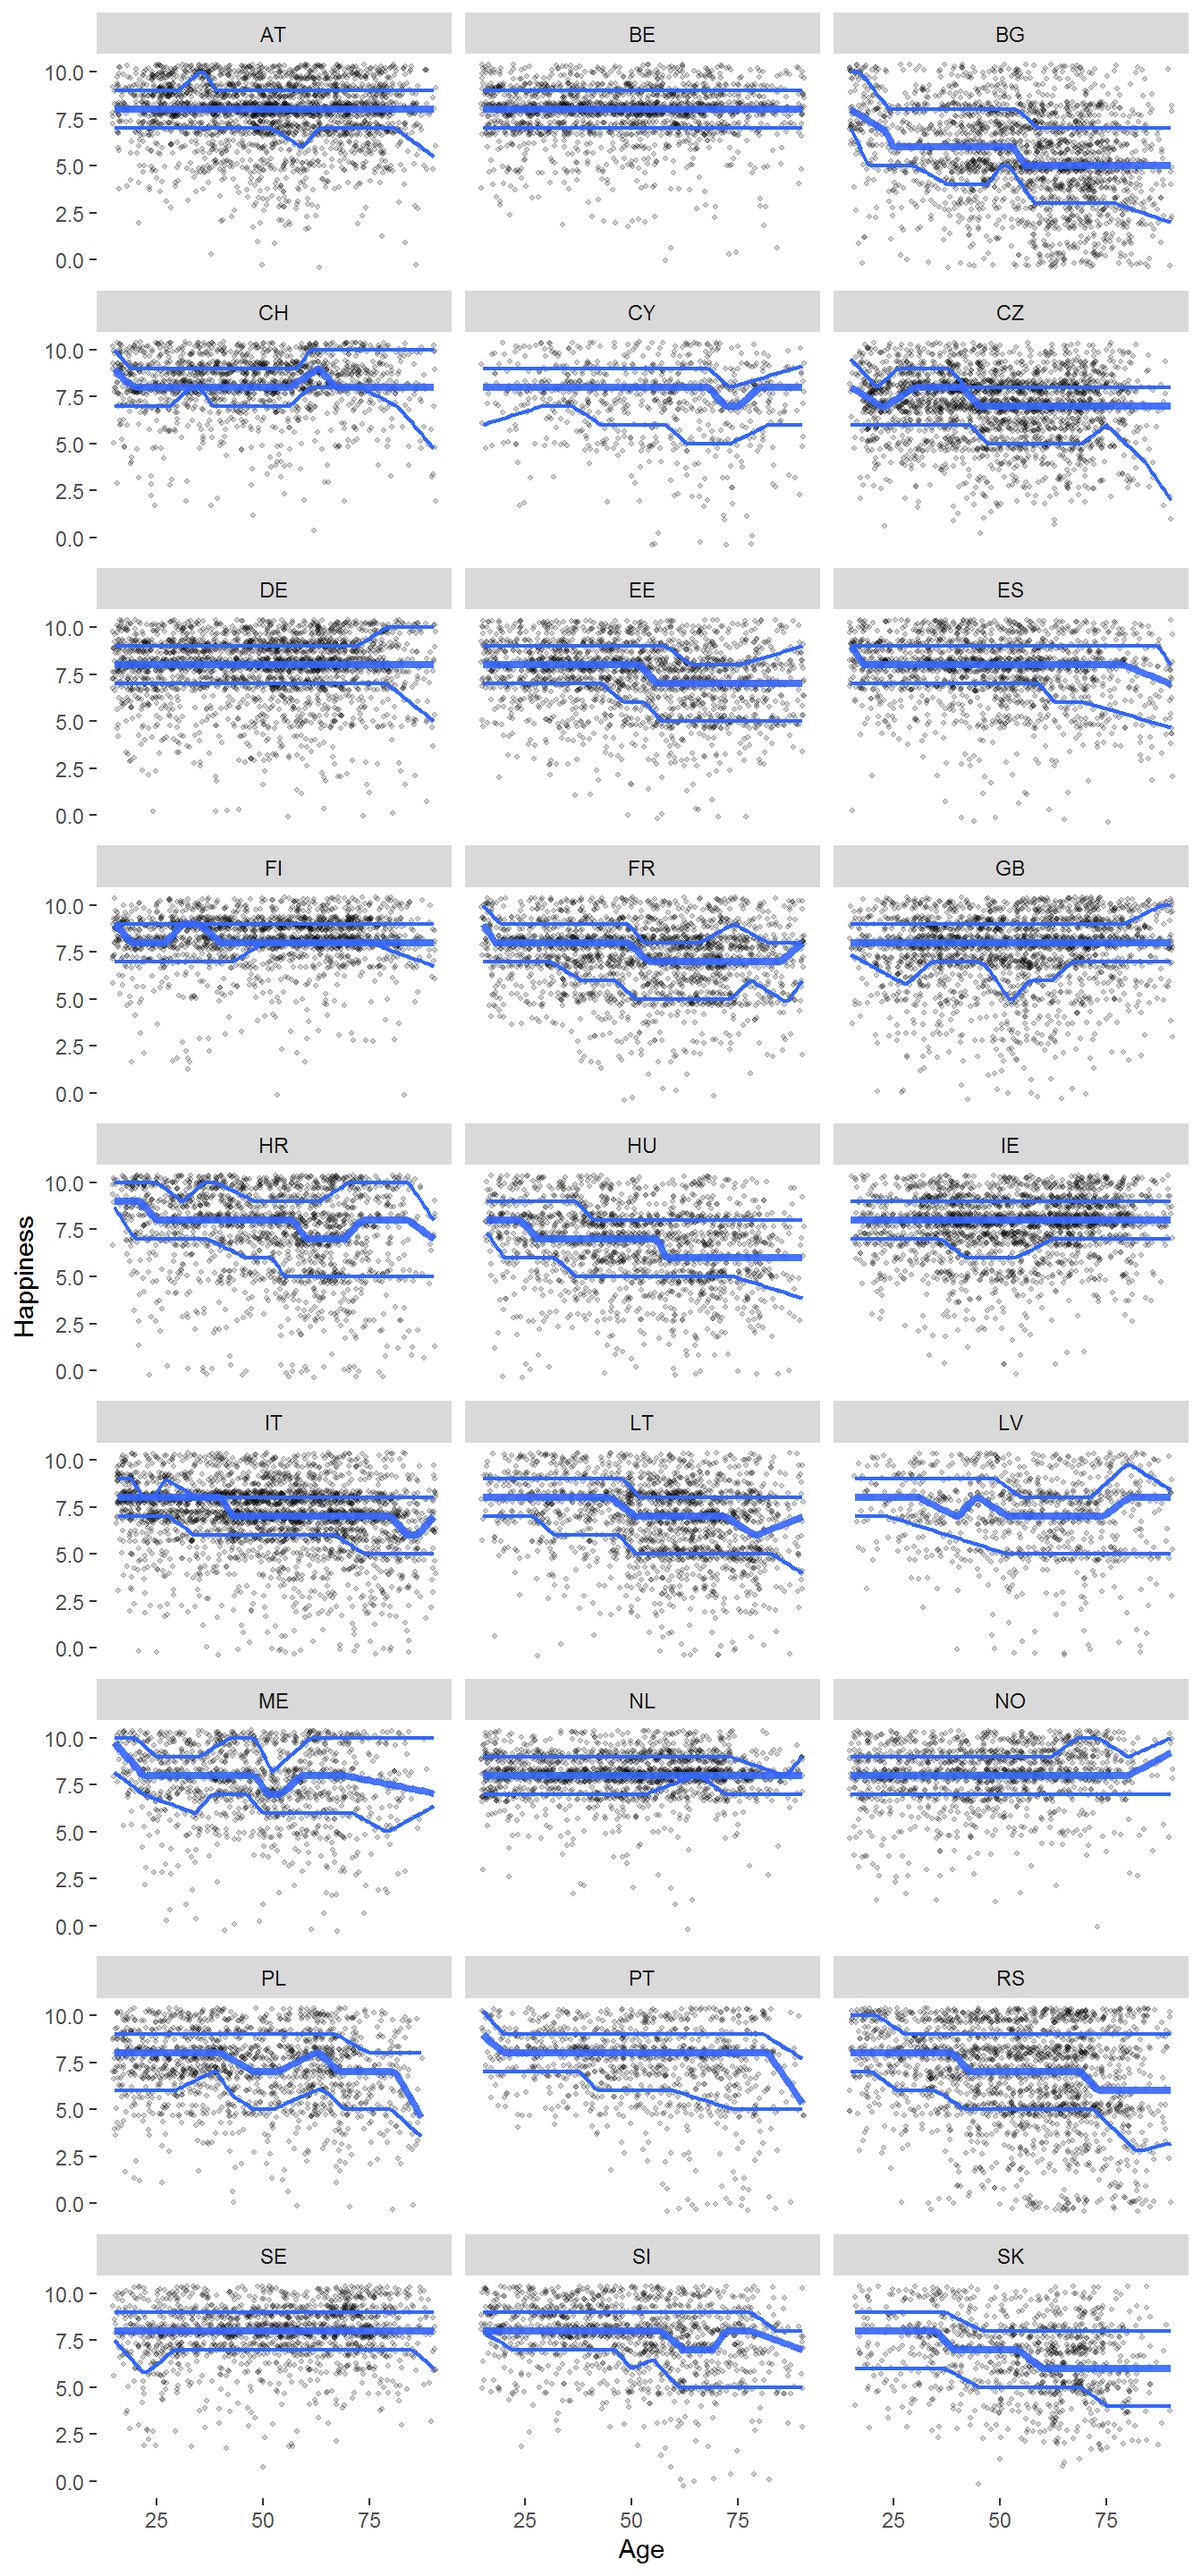
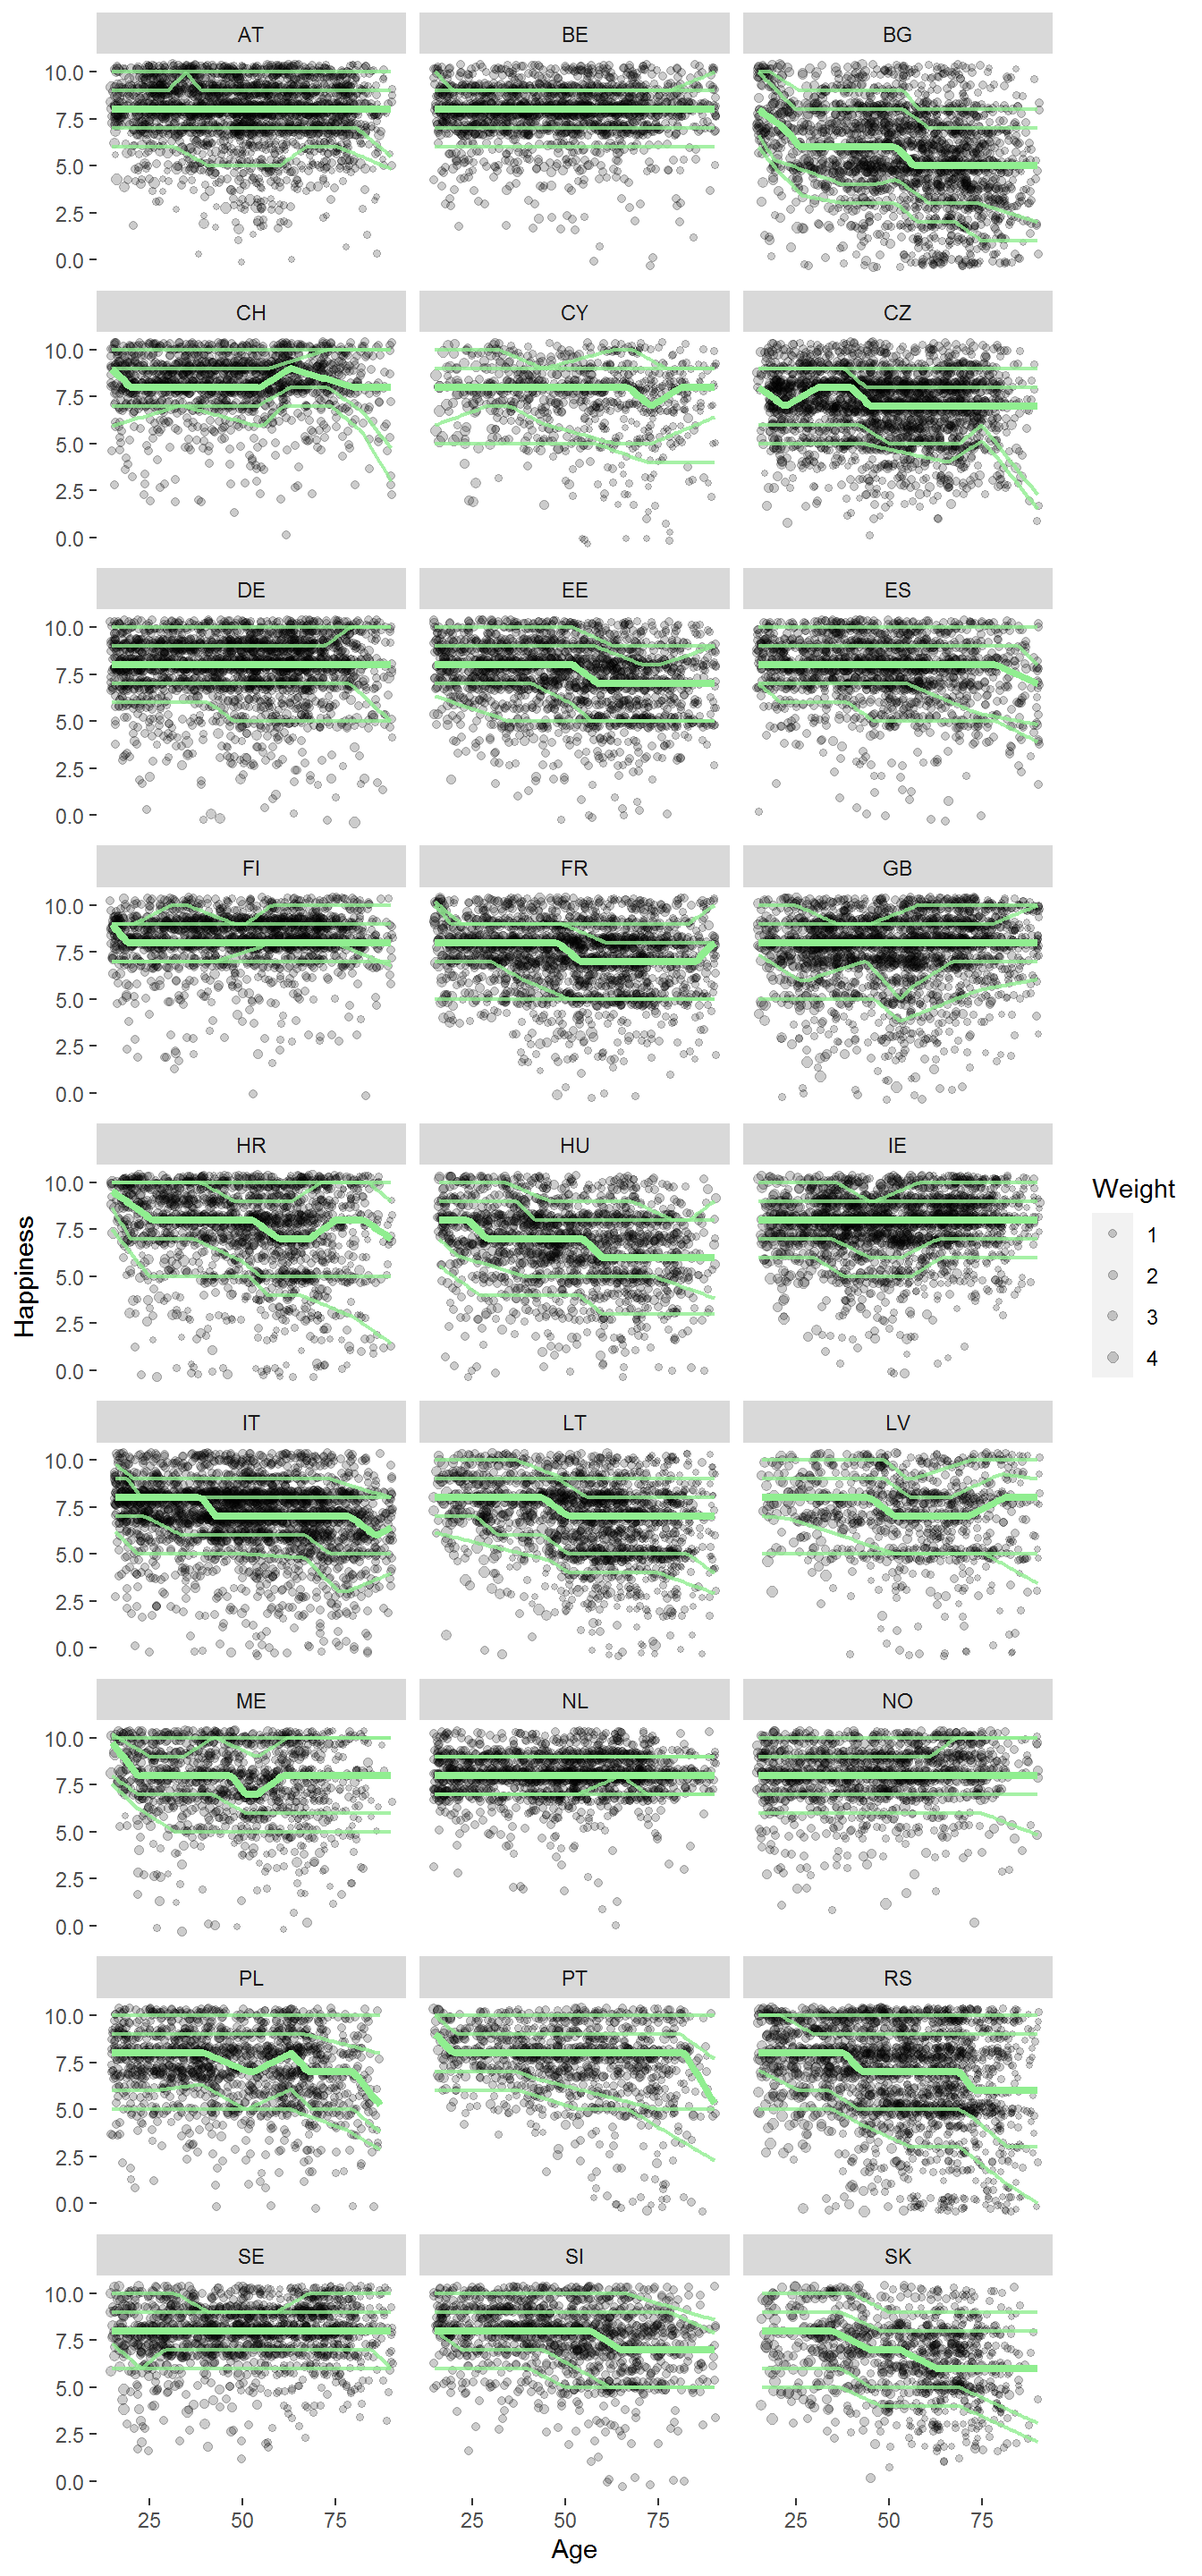
More work in progress

diff --git a/index.html b/index.html
@@ -11,7 +11,7 @@
 
 <meta name="author" content="Andi Fugard (almost@gmail.com, @inductivestep)" />
 
-<meta name="date" content="2020-08-12" />
+<meta name="date" content="2020-08-13" />
 
 <title>Is happiness U-shaped?</title>
 
@@ -256,20 +256,20 @@ div.tocify {
 
 <h1 class="title toc-ignore">Is happiness U-shaped?</h1>
 <h4 class="author">Andi Fugard (<a href="mailto:almost@gmail.com" class="email">almost@gmail.com</a>, @<a href="https://twitter.com/InductiveStep">inductivestep</a>)</h4>
-<h4 class="date">12 August 2020</h4>
+<h4 class="date">13 August 2020</h4>
 
 </div>
 
 
 <div id="introduction" class="section level1">
 <h1>Introduction</h1>
-<p>This is <em>work in progress</em>, in response to David G. Blanchflower’s paper <a href="https://www.nber.org/papers/w26641">Is Happiness U-shaped Everywhere?</a>.</p>
+<p>This is <strong>work in progress</strong>, in response to David G. Blanchflower’s paper <a href="https://www.nber.org/papers/w26641">Is Happiness U-shaped Everywhere?</a>.</p>
 <p>I’m curious to know:</p>
 <ul>
 <li>The shape of happiness in the latest round of the <a href="https://www.europeansocialsurvey.org/">European Social Survey</a>.</li>
 <li>How the magnitude of any effect for age compares with other obvious predictors of wellbeing.</li>
 </ul>
-<p>Load some packages:</p>
+<p>Load packages:</p>
 <pre class="r"><code>library(tidyverse)</code></pre>
 <pre><code>## -- Attaching packages ----------------------------------------- tidyverse 1.3.0 --</code></pre>
 <pre><code>## v ggplot2 3.3.2     v purrr   0.3.4
@@ -312,6 +312,7 @@ library(srvyr)</code></pre>
 <pre><code>## The following object is masked from &#39;package:graphics&#39;:
 ## 
 ##     dotchart</code></pre>
+<pre class="r"><code>library(broom)</code></pre>
 <p>Read in the ESS data, <a href="https://www.europeansocialsurvey.org/download.html?file=ESS9e02&amp;c=&amp;y=2018">integrated file, edition 2.0 round 9</a>:</p>
 <pre class="r"><code>ESS9e02 &lt;- read_sav(&quot;ESS9e02.sav&quot;)</code></pre>
 <p>Have a look:</p>
@@ -394,21 +395,26 @@ age_group_names</code></pre>
   facet_wrap(vars(cntry), ncol = 3) +
   labs(x = &quot;Age group&quot;, y = &quot;Mean happiness&quot;)</code></pre>
 <p><img src="index_files/figure-html/unnamed-chunk-12-1.png" width="672" /></p>
-<pre class="r"><code>dat %&gt;%
-  select(agea, happy, cntry) %&gt;%
+<p>This is another quick visual, without any weighting.</p>
+<pre class="r"><code>theLambda &lt;- 15
+dat %&gt;%
+  select(agea, happy, cntry, pspwght) %&gt;%
   na.omit %&gt;%
-  ggplot(aes(x = agea, y = happy)) +
-    geom_jitter(size = .8, alpha = 0.2) + 
+  ggplot(aes(x = agea, y = happy, size = pspwght)) +
+    geom_jitter(alpha = 0.2) + 
+    scale_size(range = c(.8, 2), name=&quot;Weight&quot;) +
     geom_quantile(quantiles = c(.5),
                   method = &quot;rqss&quot;,
-                  formula = y ~ qss(x, lambda = 8),
+                  formula = y ~ qss(x, lambda = theLambda),
                   size = 1.5,
-                  alpha = 0.9) + 
-    geom_quantile(quantiles = c(.2, .8),
+                  alpha = 1,
+                  col = &quot;lightgreen&quot;) + 
+    geom_quantile(quantiles = c(.1, .2, .8, .9),
                   method = &quot;rqss&quot;,
-                  formula = y ~ qss(x, lambda = 8),
+                  formula = y ~ qss(x, lambda = theLambda),
                   size = .8,
-                  alpha = 1) + 
+                  alpha = .8,
+                  col = &quot;lightgreen&quot;) + 
     facet_wrap(vars(cntry), ncol = 3) +
     labs(x = &quot;Age&quot;, y = &quot;Happiness&quot;) +
     scale_x_continuous() + 
@@ -416,19 +422,25 @@ age_group_names</code></pre>
     theme(panel.grid.major = element_blank(),
           panel.grid.minor = element_blank(),
           panel.background = element_rect(fill = &quot;white&quot;))</code></pre>
-<pre><code>## Warning in rq.fit.sfn(x, y, tau = tau, rhs = rhs, control = control, ...): tiny diagonals replaced with Inf when calling blkfct</code></pre>
+<pre><code>## Warning in rq.fit.sfn(x, y, tau = tau, rhs = rhs, control = control, ...): tiny diagonals replaced with Inf when calling blkfct
+
+## Warning in rq.fit.sfn(x, y, tau = tau, rhs = rhs, control = control, ...): tiny diagonals replaced with Inf when calling blkfct</code></pre>
 <p><img src="index_files/figure-html/unnamed-chunk-13-1.png" width="672" /></p>
 </div>
 <div id="fit-models" class="section level1">
 <h1>Fit models</h1>
 <p>To get us started, let’s fit a model to GB data.</p>
-<pre class="r"><code>gb_mod &lt;- dat_svy %&gt;%
-  filter(cntry == &quot;GB&quot;) %&gt;%
-  svyglm(happy ~ agea + I(agea^2), design = .)
-summary(gb_mod)</code></pre>
+<pre class="r"><code>svy_gb &lt;- dat_svy %&gt;%
+  filter(cntry == &quot;GB&quot;)
+
+mod_gb &lt;- svy_gb %&gt;%
+  svyglm(happy ~ agea + I(agea^2),
+         design = .,
+         influence = T)
+summary(mod_gb)</code></pre>
 <pre><code>## 
 ## Call:
-## svyglm(formula = happy ~ agea + I(agea^2), design = .)
+## svyglm(formula = happy ~ agea + I(agea^2), design = ., influence = T)
 ## 
 ## Survey design:
 ## Called via srvyr
@@ -444,6 +456,98 @@ summary(gb_mod)</code></pre>
 ## (Dispersion parameter for gaussian family taken to be 3.49404)
 ## 
 ## Number of Fisher Scoring iterations: 2</code></pre>
+<p>We can use tidy (in the broom package) to reshape this output to a handy tibble, which will be handy later for combining.</p>
+<pre class="r"><code>tidy(mod_gb)</code></pre>
+<pre><code>## # A tibble: 3 x 5
+##   term         estimate std.error statistic   p.value
+##   &lt;chr&gt;           &lt;dbl&gt;     &lt;dbl&gt;     &lt;dbl&gt;     &lt;dbl&gt;
+## 1 (Intercept)  8.20      0.328        25.0  1.77e-121
+## 2 agea        -0.0340    0.0137       -2.48 1.32e-  2
+## 3 I(agea^2)    0.000395  0.000129      3.06 2.27e-  3</code></pre>
+</div>
+<div id="fit-separate-models-to-all-countries" class="section level1">
+<h1>Fit separate models to all countries</h1>
+<p>First step - package up the code above into a function taking a design object as input.</p>
+<pre class="r"><code>happy_run &lt;- function(the_design) {
+  the_design %&gt;%
+  svyglm(happy ~ agea + I(agea^2),
+         design = .) %&gt;%
+  tidy()
+}</code></pre>
+<p>Test it out:</p>
+<pre class="r"><code>dat_svy %&gt;%
+  filter(cntry == &quot;GB&quot;) %&gt;%
+  happy_run()</code></pre>
+<pre><code>## # A tibble: 3 x 5
+##   term         estimate std.error statistic   p.value
+##   &lt;chr&gt;           &lt;dbl&gt;     &lt;dbl&gt;     &lt;dbl&gt;     &lt;dbl&gt;
+## 1 (Intercept)  8.20      0.328        25.0  1.77e-121
+## 2 agea        -0.0340    0.0137       -2.48 1.32e-  2
+## 3 I(agea^2)    0.000395  0.000129      3.06 2.27e-  3</code></pre>
+<p>Now we will apply to all the countries, so save their names.</p>
+<pre class="r"><code>cs &lt;- unique(dat_svy$variables$cntry)
+table(cs)</code></pre>
+<pre><code>## cs
+## AT BE BG CH CY CZ DE EE ES FI FR GB HR HU IE IT LT LV ME NL NO PL PT RS SE SI 
+##  1  1  1  1  1  1  1  1  1  1  1  1  1  1  1  1  1  1  1  1  1  1  1  1  1  1 
+## SK 
+##  1</code></pre>
+<p>Use <code>map_dfr</code> to fit the function to all countries data, producing a “long” tibble with all the coefficients.</p>
+<pre class="r"><code>u_happy_coefs &lt;- cs %&gt;%
+  map_dfr(function (x) 
+            dat_svy %&gt;%
+            filter(cntry == x) %&gt;%
+            happy_run() %&gt;%
+            mutate(cntry = x, .before = &quot;term&quot;)
+  )
+u_happy_coefs</code></pre>
+<pre><code>## # A tibble: 81 x 6
+##    cntry            term         estimate std.error statistic   p.value
+##    &lt;chr+lbl&gt;        &lt;chr&gt;           &lt;dbl&gt;     &lt;dbl&gt;     &lt;dbl&gt;     &lt;dbl&gt;
+##  1 AT [Austria]     (Intercept)  8.50     0.279        30.4   5.59e-173
+##  2 AT [Austria]     agea        -0.0207   0.0123       -1.69  9.16e-  2
+##  3 AT [Austria]     I(agea^2)    0.000152 0.000120      1.27  2.04e-  1
+##  4 BE [Belgium]     (Intercept)  7.97     0.221        36.0   3.59e-213
+##  5 BE [Belgium]     agea        -0.00987  0.00979      -1.01  3.14e-  1
+##  6 BE [Belgium]     I(agea^2)    0.000111 0.0000980     1.13  2.60e-  1
+##  7 BG [Bulgaria]    (Intercept)  8.01     0.355        22.5   2.37e-101
+##  8 BG [Bulgaria]    agea        -0.0524   0.0149       -3.51  4.54e-  4
+##  9 BG [Bulgaria]    I(agea^2)    0.000123 0.000145      0.851 3.95e-  1
+## 10 CH [Switzerland] (Intercept)  7.87     0.261        30.2   1.73e-157
+## # ... with 71 more rows</code></pre>
+<p>Now plot the slopes for age and age-squared by country.</p>
+<pre class="r"><code>threshold = 2
+
+u_happy_coef_wide &lt;- u_happy_coefs %&gt;%
+  select(cntry, term, statistic) %&gt;%
+  pivot_wider(names_from  = &quot;term&quot;,
+              values_from = &quot;statistic&quot;) # the z-score
+
+u_happy_coef_wide &lt;- u_happy_coef_wide %&gt;%
+  mutate(class =
+    case_when(
+      agea &lt; -threshold &amp; `I(agea^2)` &gt; threshold ~ &quot;U-shaped&quot;,
+      agea &gt;  threshold &amp; `I(agea^2)` &lt; threshold ~ &quot;inverted-U&quot;,
+      agea &lt; -threshold &amp;
+        abs(`I(agea^2)`) &lt; threshold              ~ &quot;linear decrease&quot;,
+      agea &gt; threshold &amp;
+        abs(`I(agea^2)`) &lt; threshold              ~ &quot;linear increase&quot;,
+      abs(agea) &lt; threshold &amp; 
+        abs(`I(agea^2)`) &lt; threshold              ~ &quot;constant&quot;,
+      TRUE ~ &quot;other&quot;
+    )
+  )
+    
+u_happy_coef_wide %&gt;%
+  ggplot(aes(y = `I(agea^2)`, x = agea, label = cntry, colour = class)) +
+    geom_text(check_overlap = TRUE) +
+    labs(y = bquote(age^2~&quot;(z statistic)&quot;),
+         x = &quot;age (z statistic)&quot;) +
+    geom_vline(xintercept = 0) +
+    geom_hline(yintercept = 0) +  
+    xlim(-4,4) +
+    ylim(-4,4)</code></pre>
+<p><img src="index_files/figure-html/unnamed-chunk-20-1.png" width="672" /></p>
 </div>
 <div id="to-be-continued" class="section level1">
 <h1>To be continued…</h1>
@@ -452,6 +556,7 @@ summary(gb_mod)</code></pre>
 <li>Fit the U model to all data</li>
 <li>Categorise them by whether the coefficients fit the U-pattern and calculate age of average worst happiness</li>
 <li>Plot diagnostics for all countries</li>
+<li>OMG maybe plot the slopes for x and x^2, coloured by country…</li>
 </ol>
 </div>
 
